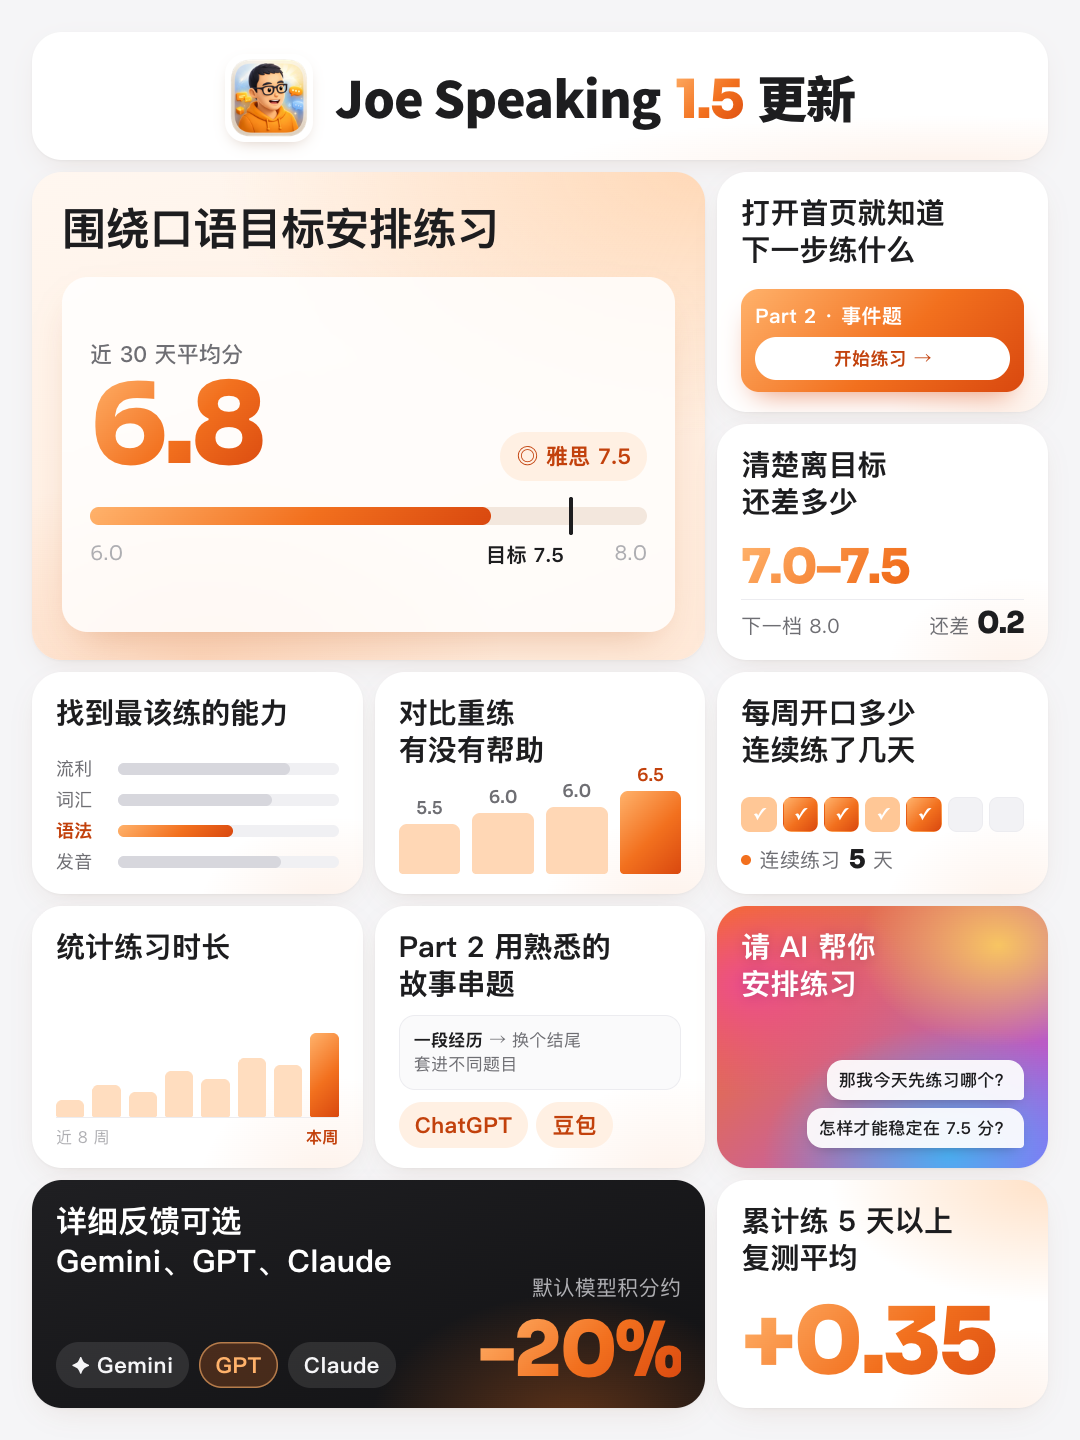
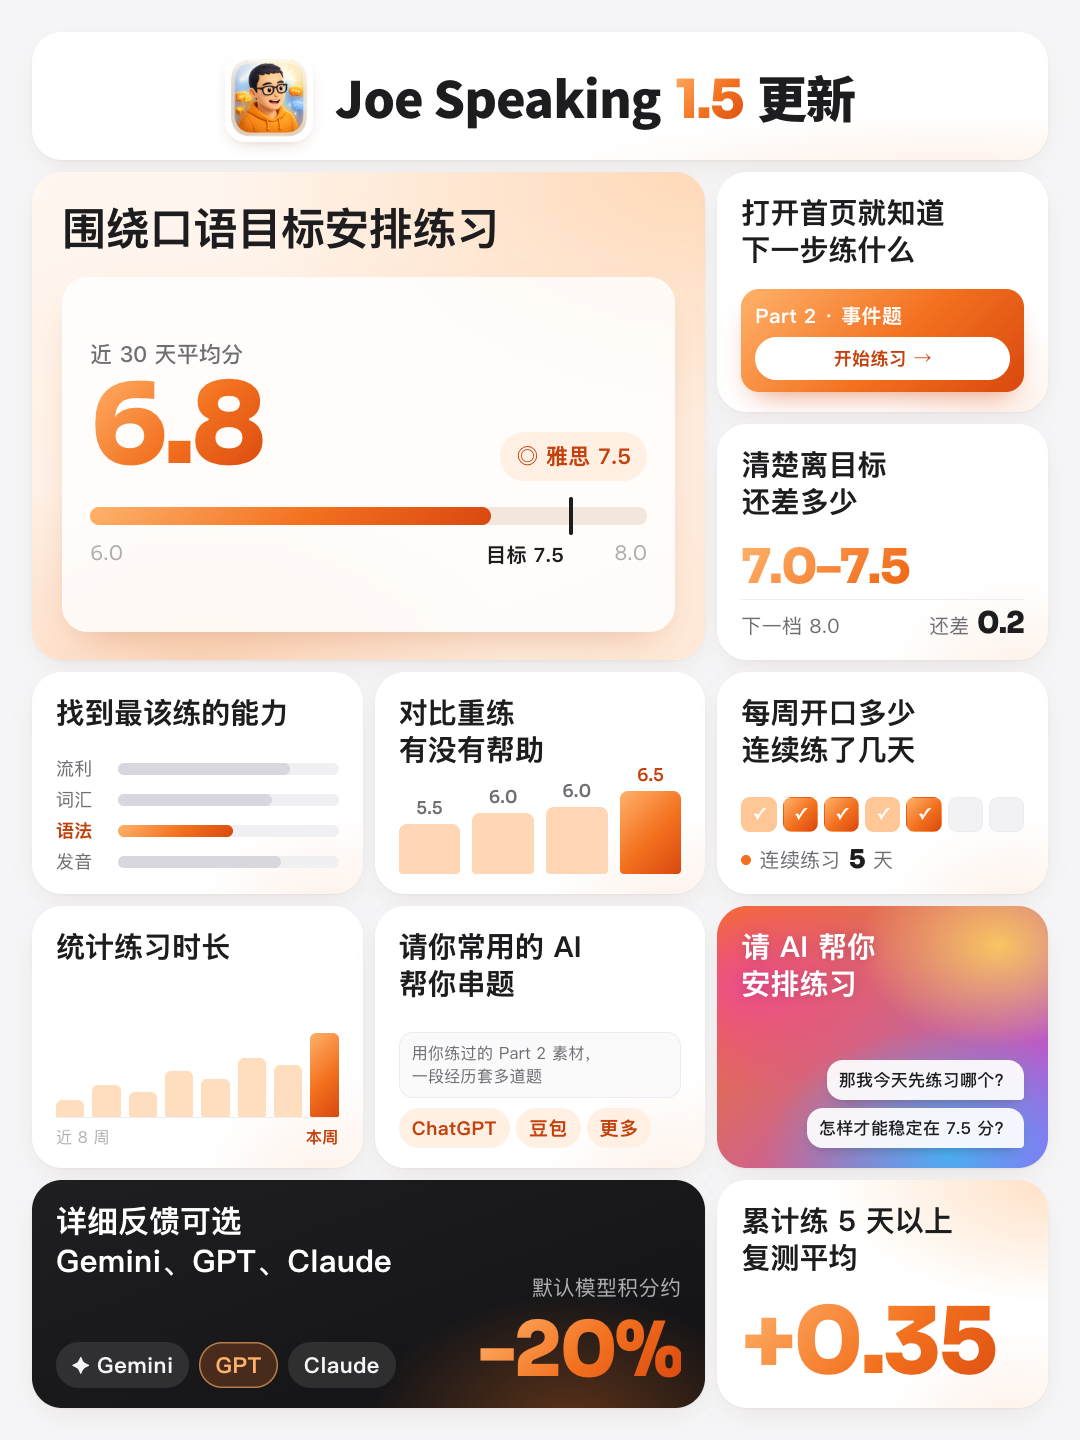
docs(examples): new Part 2 tile copy in Joe Speaking 1.5 bentos
- Part 2 tile: 「请你常用的 AI 帮你串题」, small note
  「用你练过的 Part 2 素材，一段经历套多道题」, pills ChatGPT / 豆包 / 更多
- Bento cover: row heights rebalanced so title, note and pills fit
- README: Part 2 sentence matches the new wording

Changed region(s): [[0.3667, 0.625, 0.5806, 0.8125]]

diff --git a/examples/joe-speaking-1-5-bento-cover-3x4.html b/examples/joe-speaking-1-5-bento-cover-3x4.html
@@ -147,7 +147,7 @@ body{width:1080px;height:1440px;overflow:hidden;background:#f5f5f7;color:var(--i
 
 /* cover variant: headline on top third, condensed bento below */
 body{position:relative}
-.top{position:absolute;left:0;right:0;top:0;height:470px;display:flex;flex-direction:column;align-items:center;justify-content:center;text-align:center}
+.top{position:absolute;left:0;right:0;top:0;height:452px;display:flex;flex-direction:column;align-items:center;justify-content:center;text-align:center}
 .top h1{font-family:"Noto Sans SC","PingFang SC",sans-serif;font-weight:900;letter-spacing:-.02em;color:var(--ink);white-space:nowrap}
 .top h1 .l1{display:block;font-size:136px;line-height:1.1}
 .top h1 .l2{display:block;font-size:90px;line-height:1.2;margin-top:6px}
@@ -156,8 +156,8 @@ body{position:relative}
 .top .brand{display:flex;align-items:center;justify-content:center;margin-top:22px;font-family:"Noto Sans SC","PingFang SC",sans-serif;font-weight:900;font-size:40px;color:var(--ink)}
 .top .brand img{width:64px;height:64px;border-radius:15px;margin-right:16px;box-shadow:0 6px 16px -8px rgba(120,60,20,.35)}
 .top .brand .num{font-size:42px;margin:0 8px}
-.grid{position:absolute;left:0;bottom:0;height:970px;padding:12px 32px 32px;
-  grid-template-rows:211px 230px 241px 1fr !important;
+.grid{position:absolute;left:0;bottom:0;height:988px;padding:12px 32px 32px;
+  grid-template-rows:211px 230px 259px 1fr !important;
   grid-template-areas:
     "goal goal plus"
     "goal goal gap"
@@ -173,6 +173,11 @@ body{position:relative}
 .gap .still{margin-top:8px;padding-top:8px}
 .mini-home{padding:10px 14px 12px}
 .mini-home .btn{margin-top:8px}
+
+/* Part 2 tile: title + small note + three pills */
+.part2 .story{background:#FAFAFB;border:1px solid var(--line);border-radius:14px;padding:9px 12px;font-size:16px;color:var(--ink2);line-height:1.45}
+.part2 .pills{display:flex;gap:6px;margin-top:10px}
+.part2 .pill{font-size:19px;padding:7px 13px}
 </style>
 </head>
 <body>
@@ -223,9 +228,10 @@ body{position:relative}
 
 
   <div class="card part2">
-    <div class="t">Part 2 用熟悉的<br>故事串题</div>
+    <div class="t">请你常用的 AI<br>帮你串题</div>
     <div class="v">
-      <div class="pills"><span class="pill o">ChatGPT</span><span class="pill o">豆包</span></div>
+      <div class="story">用你练过的 Part 2 素材，<br>一段经历套多道题</div>
+      <div class="pills"><span class="pill o">ChatGPT</span><span class="pill o">豆包</span><span class="pill o">更多</span></div>
     </div>
   </div>
 

diff --git a/examples/joe-speaking-1-5-bento-3x4.html b/examples/joe-speaking-1-5-bento-3x4.html
@@ -153,6 +153,11 @@ body{width:1080px;height:1440px;overflow:hidden;background:#f5f5f7;color:var(--i
 .gap .still{margin-top:8px;padding-top:8px}
 .mini-home{padding:10px 14px 12px}
 .mini-home .btn{margin-top:8px}
+
+/* Part 2 tile: title + small note + three pills */
+.part2 .story{background:#FAFAFB;border:1px solid var(--line);border-radius:14px;padding:9px 12px;font-size:16px;color:var(--ink2);line-height:1.45}
+.part2 .pills{display:flex;gap:6px;margin-top:10px}
+.part2 .pill{font-size:19px;padding:7px 13px}
 </style>
 </head>
 <body>
@@ -233,10 +238,10 @@ body{width:1080px;height:1440px;overflow:hidden;background:#f5f5f7;color:var(--i
   </div>
 
   <div class="card part2">
-    <div class="t">Part 2 用熟悉的<br>故事串题</div>
+    <div class="t">请你常用的 AI<br>帮你串题</div>
     <div class="v">
-      <div class="story"><b>一段经历</b> → 换个结尾<br>套进不同题目</div>
-      <div class="pills"><span class="pill o">ChatGPT</span><span class="pill o">豆包</span></div>
+      <div class="story">用你练过的 Part 2 素材，<br>一段经历套多道题</div>
+      <div class="pills"><span class="pill o">ChatGPT</span><span class="pill o">豆包</span><span class="pill o">更多</span></div>
     </div>
   </div>
 

diff --git a/README.md b/README.md
@@ -36,7 +36,7 @@ All made with this skill — just describe your data and get pixel-perfect outpu
 
 **Version update carousel** — 3:4 (1080×1440) for 小红书 / Instagram, premium light style with a bento cover
 
-Joe Speaking 1.5 is built around the learner's IELTS speaking goal: practice is planned toward a target band, and the app shows the gap to that target, which ability to work on next, and whether a retry actually helped. It tracks weekly speaking time and practice streaks, lets learners reuse their own Part 2 stories with ChatGPT or 豆包, and lets them ask AI to plan what to practise next. Detailed feedback can now come from Gemini, GPT or Claude, with the default model using about 20% fewer credits, and learners with 5+ practice days scored +0.35 higher on average when re-tested (a figure the app itself shows).
+Joe Speaking 1.5 is built around the learner's IELTS speaking goal: practice is planned toward a target band, and the app shows the gap to that target, which ability to work on next, and whether a retry actually helped. It tracks weekly speaking time and practice streaks, lets learners ask the AI they already use (ChatGPT, 豆包 and others) to stitch one practised Part 2 story across several questions, and lets them ask AI to plan what to practise next. Detailed feedback can now come from Gemini, GPT or Claude, with the default model using about 20% fewer credits, and learners with 5+ practice days scored +0.35 higher on average when re-tested (a figure the app itself shows).
 
 | Bento cover | Full update summary |
 |-------------|---------------------|
